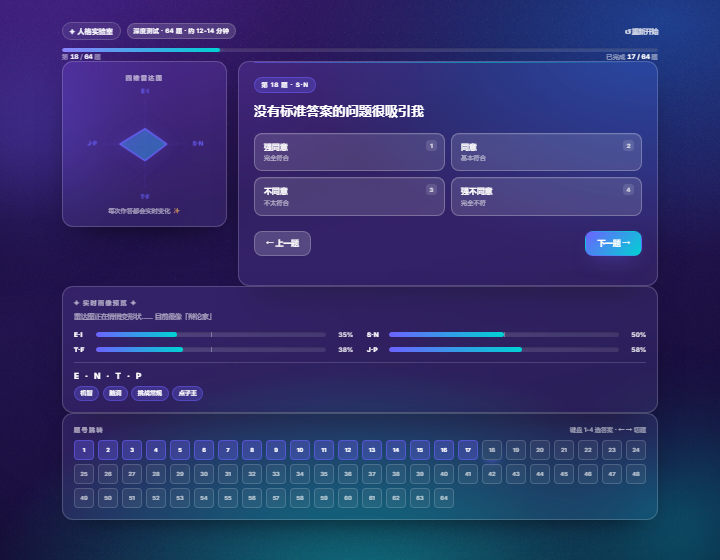
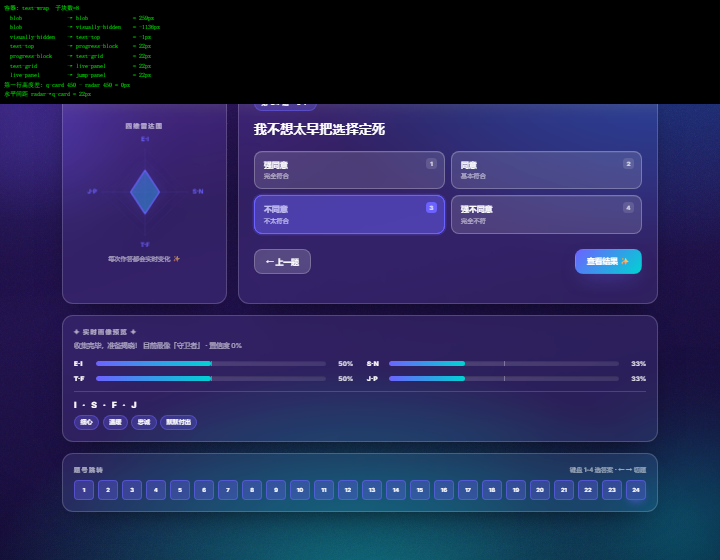
v4.4: 统一内容块间距节奏（22px 一套）
问题（用户截图圈出）：内容区组件之间的间隔不一致。

先用无头浏览器 + 注入式测量浮层实测，拿到真实数字：
- 进度条 → 第一行卡片 = 0px（紧贴）
- test-grid → 实时画像预览 = 0px
- 实时画像预览 → 题号跳转 = 0px
- 只有水平方向有 22px
- 第一行两列高度差 114px（左列矮一截 → 出现空白缺口）

根因：① 垂直方向没有 gap；② 各组件自带外边距与 gap 叠加/缺失；
③ test-grid 用 align-items:start，两列各自高度不同。

修法：
- 新增令牌 --card-gap（22px）
- .test-wrap / .result-wrap / #resultMain 改为 flex column + gap
- 样式表靠后加"节奏归零"规则，抹掉直接子元素自身外边距（放最后才生效）
- 进度条与计数包进 .progress-block（内部 8px）作为一个整体
- test-grid 改 align-items:stretch + 雷达内容垂直居中 → 两列等高

验证（逐项测量）：
- 答题页：4 处纵向间距全 22px、水平 22px、两列高度差 0px
- 结果页：#resultMain 15 处分区间距全 22px（类型页同容器受益）
- 测试：静态 206 + 逻辑 127 + 仿真 28 + 冒烟 48 + SW 18 = 427 项全绿
- SW 缓存版本升至 v4.4.0

diff --git a/style.css b/style.css
@@ -50,6 +50,8 @@
   --ease-out:cubic-bezier(.22,.61,.36,1);
   --ease-spring:cubic-bezier(.34,1.4,.64,1);
   --shell:1180px; --gutter:24px;
+  /* 统一的内容区节奏：所有内容卡片之间都是这一个间距 */
+  --card-gap:var(--sp-5);
   /* 字体 */
   --font:'Inter','PingFang SC','Hiragino Sans GB','Microsoft YaHei',system-ui,sans-serif;
   --font-hand:'Kaiti SC','STKaiti','KaiTi','楷体',serif;
@@ -152,6 +154,10 @@ img { max-width:100%; height:auto; }
 .home-wrap, .test-wrap, .result-wrap {
   width:100%; max-width:var(--shell); margin:0 auto; padding:var(--sp-7) var(--gutter) var(--sp-8);
 }
+/* 答题页 / 结果页 / 类型页：内容块用统一的 column-gap 排布
+   （此前卡片之间是 0 间距、水平 22px，节奏不一致） */
+.test-wrap, .result-wrap { display:flex; flex-direction:column; gap:var(--card-gap); }
+#reportSections { display:grid; gap:var(--card-gap); }
 .home-wrap { min-height:100vh; display:flex; flex-direction:column; justify-content:center; gap:var(--sp-7); }
 .home-grid { display:grid; grid-template-columns:minmax(0,1.05fr) minmax(0,.95fr); gap:var(--sp-8); align-items:center; }
 .home-copy { display:grid; gap:var(--sp-4); justify-items:start; min-width:0; }
@@ -243,7 +249,7 @@ img { max-width:100%; height:auto; }
   background:linear-gradient(90deg, var(--tcolor), var(--cyan-500) 60%, transparent);
   opacity:.55;
 }
-.result-duo { display:grid; grid-template-columns:1fr 1fr; gap:var(--sp-4); }
+.result-duo { display:grid; grid-template-columns:1fr 1fr; gap:var(--card-gap); }
 .desc-card h3, .gc-card h4, .conf-panel h4, .fact-card h3 {
   display:flex; align-items:center; gap:10px;
   font-size:1rem; font-weight:700; color:var(--text-1); letter-spacing:.01em; margin:0 0 14px;
@@ -349,6 +355,8 @@ img { max-width:100%; height:auto; }
   position:relative; height:8px; border-radius:var(--r-full); overflow:hidden;
   background:rgba(255,255,255,.12); box-shadow:inset 0 1px 2px rgba(0,0,0,.25);
 }
+/* 进度条 + 计数视为一个整体，内部 8px */
+.progress-block { display:grid; gap:8px; }
 .progress-fill {
   height:100%; width:0; border-radius:var(--r-full);
   background:linear-gradient(90deg, var(--brand-500), var(--cyan-500));
@@ -356,7 +364,7 @@ img { max-width:100%; height:auto; }
 }
 .progress-meta { display:flex; justify-content:space-between; gap:12px; font-size:.8rem; color:var(--on-dark-3); }
 .progress-meta b { color:#fff; font-variant-numeric:tabular-nums; }
-.test-grid { display:grid; grid-template-columns:330px minmax(0,1fr); gap:var(--sp-5); align-items:start; }
+.test-grid { display:grid; grid-template-columns:330px minmax(0,1fr); gap:var(--card-gap); align-items:stretch; }
 .q-card { padding:var(--sp-6); }
 .q-num {
   align-self:flex-start;
@@ -400,7 +408,7 @@ img { max-width:100%; height:auto; }
   opacity:0; transition:opacity .3s ease;
 }
 .milestone.show { opacity:1; }
-.radar-wrap { padding:var(--sp-5); }
+.radar-wrap { padding:var(--sp-5); display:flex; flex-direction:column; justify-content:center; }
 .radar-txt { display:grid; gap:6px; justify-items:center; }
 .radar-txt h3, .live-head h3, .jump-head span:first-child {
   font-size:.78rem; font-weight:700; letter-spacing:.2em; text-transform:uppercase;
@@ -843,6 +851,12 @@ body.theme-glass :is(.btn-ghost:hover, .btn.ghost:hover) {
   border-color:rgba(255,255,255,.34);
   box-shadow:0 14px 30px -16px rgba(0,0,0,.65);
 }
+
+/* ---------- 内容块节奏归一 ----------
+   放在样式表靠后位置，才能覆盖各组件自带的外边距（.test-top / .result-head /
+   .actions / .section-title / .share-cta 等），保证内容块之间只有 --card-gap 一个间距。 */
+#resultMain { display:flex; flex-direction:column; gap:var(--card-gap); }
+.test-wrap > *, .result-wrap > *, #resultMain > * { margin-top:0; margin-bottom:0; }
 
 /* ============================================================
    15. 响应式

diff --git a/test.html b/test.html
@@ -40,10 +40,12 @@
       <a class="tt-reset" href="#" id="resetLink">↺ 重新开始</a>
     </div>
 
-    <div class="progress-track" id="progressTrack" role="progressbar" aria-valuemin="0" aria-valuemax="64" aria-valuenow="0" aria-label="答题进度"><div class="progress-fill" id="progressFill"></div></div>
-    <div class="progress-meta">
-      <span>第 <b id="qCurrent">1</b> / <b id="qTotal">64</b> 题</span>
-      <span>已完成 <b id="qDone">0</b> 题</span>
+    <div class="progress-block">
+      <div class="progress-track" id="progressTrack" role="progressbar" aria-valuemin="0" aria-valuemax="64" aria-valuenow="0" aria-label="答题进度"><div class="progress-fill" id="progressFill"></div></div>
+      <div class="progress-meta">
+        <span>第 <b id="qCurrent">1</b> / <b id="qTotal">64</b> 题</span>
+        <span>已完成 <b id="qDone">0</b> 题</span>
+      </div>
     </div>
 
     <div class="test-grid">

diff --git a/tools/verify-deploy.js b/tools/verify-deploy.js
@@ -165,7 +165,7 @@ const sleep = ms => new Promise(r => setTimeout(r, ms));
     ['result.html', '结果页', [['报告长图按钮', /reportImgBtn/], ['类型档案入口', /typePageLink/], ['打印按钮', /printBtn/]]],
     ['relation.html', '关系匹配页', [['矩阵容器', /id="relMatrix"/], ['选择槽', /relSlotA/]]],
     ['types/intj.html', '类型百科页', [['类型内容', /战略家/], ['结构化数据', /application\/ld\+json/]]],
-    ['sw.js', 'Service Worker', [['缓存版本 v4.3.0', /mbti-v4\.3\.0/]]],
+    ['sw.js', 'Service Worker', [['缓存版本 v4.4.0', /mbti-v4\.4\.0/]]],
     ['manifest.json', 'PWA manifest', [['名称字段', /"name"/], ['独立窗口', /standalone/]]]
   ];
   for (const [file, label, marks] of pages) {

diff --git a/sw.js b/sw.js
@@ -10,7 +10,7 @@
    ============================================================ */
 'use strict';
 
-const CACHE_VERSION = 'mbti-v4.3.0';
+const CACHE_VERSION = 'mbti-v4.4.0';
 const CACHE_NAME = CACHE_VERSION;
 
 /* 预缓存清单（路径必须真实存在，静态契约测试会逐条校验） */

diff --git a/开发文档.md b/开发文档.md
@@ -1072,4 +1072,40 @@ v4.1 采用 `:is(#page-test, #page-result)` 作用域覆盖层，好处是切换
 
 ---
 
-*文档版本 v4.3 · 玻璃主题开关（已部署）*
+## 28. v4.4 统一内容块间距节奏
+
+> 反馈（附截图圈出空白区）："每个内容区组件之间的间隔要保持一致。"
+
+### 28.1 先测量，再改
+用无头浏览器 + 注入式测量浮层，把每个内容块的实际间距打出来。实测结果：
+
+| 位置 | 修改前 | 修改后 |
+|---|---|---|
+| 进度条 → 第一行卡片 | **0px**（紧贴） | 22px |
+| `test-grid` → 实时画像预览 | **0px** | 22px |
+| 实时画像预览 → 题号跳转 | **0px** | 22px |
+| 雷达卡 → 题卡（水平） | 22px | 22px |
+| 第一行两列高度差 | **114px**（左列矮一截，出现空白缺口） | **0px** |
+| 结果页 15 处分区间距 | 0px（只有部分自带 margin 撑开） | **全部 22px** |
+
+根因有三条：① 垂直方向没有 gap，只有水平有；② 各组件自带的外边距
+（`.test-top` / `.result-head` / `.actions` / `.section-title`）与 gap 叠加或缺失；
+③ `test-grid` 用 `align-items:start`，两列各自高度不同。
+
+### 28.2 修法：一个间距令牌 + 容器级 gap
+- 新增令牌 `--card-gap: var(--sp-5)`（22px）；
+- `.test-wrap` / `.result-wrap` / `#resultMain` 改为 **flex column + gap:var(--card-gap)**；
+- 样式表靠后位置加一条**节奏归零**规则，抹掉直接子元素自身的外边距
+  （放在最后才能覆盖各组件规则，避免"写了没生效"）；
+- 进度条与计数包进 `.progress-block`（内部 8px），作为**一个整体**参与 22px 节奏；
+- `test-grid` 改 `align-items:stretch` + 雷达内容垂直居中 → 两列等高，缺口消失。
+
+### 28.3 验证
+- **逐项测量**：答题页 4 处纵向间距全部 22px、水平 22px、两列高度差 0px；
+  结果页 15 处分区间距全部 22px（类型百科页同容器自动受益）；
+- 测试：静态 206 + 逻辑 127 + 仿真 28 + 冒烟 48 + SW 18 = **427 项全绿**；
+- 契约：无未使用类名；`style.css` 51.4 KB（预算 60 KB 内）。
+
+---
+
+*文档版本 v4.4 · 间距节奏统一（已部署）*

diff --git a/README.md b/README.md
@@ -73,6 +73,9 @@
   （`rgba(255,255,255,.075)` + 白色描边 + `backdrop-filter`），与首页同一套语言；
   **去掉这个类即回到纸面白卡**——两种风格都只靠一个类名切换，组件规则不变
 - 令牌化：颜色/空间/圆角/阴影/动效全部集中在 `:root`，组件只消费令牌
+- **统一间距节奏**：所有内容卡片之间只有 `--card-gap`（22px）一个间距；
+  答题页第一行两列等高、进度条与计数作为整体（内部 8px）；
+  结果页与类型页的每个分区同样是 22px（已用测量脚本逐项核对）
 - 层次明确：区块标题带类型色竖轨，卡片顶部一道渐变细轨，列表/编号/胶囊三种信息形态复用
 - 首屏即构图：首页为双栏 hero（文案 + 四维罗盘图形）
 - 答题页为**原版纵向布局**：雷达图（左）＋ 题卡（右）→ 实时画像预览 → 题号跳转
